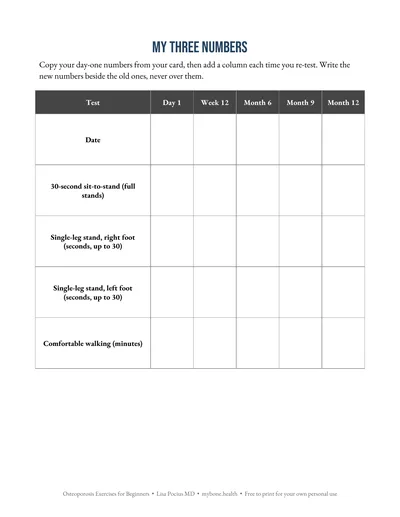
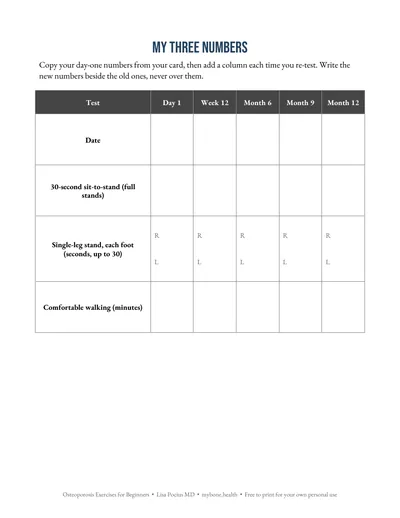
Exercise trackers: three-row My Three Numbers table (single-leg R and L in one row). New PDF and page-3 images; cache-bust ?v=2. Pages 1, 2, 4 verified pixel-identical.

diff --git a/exercise-trackers/index.html b/exercise-trackers/index.html
@@ -580,7 +580,7 @@
                 <h1>Printable logs and trackers</h1>
                 <p class="subhead">These are the tracking pages from <em>Osteoporosis Exercises for Beginners</em>, ready to print. They're free, and you don't need to sign up for anything.</p>
                 <div class="companion-dl">
-                    <a class="btn" href="../downloads/osteoporosis-exercises-logs-and-trackers.pdf" download>Download the PDF</a>
+                    <a class="btn" href="../downloads/osteoporosis-exercises-logs-and-trackers.pdf?v=2" download>Download the PDF</a>
                     <span>4 pages, letter size, about 65 KB. It prints cleanly in black and white.</span>
                 </div>
                 <div class="byline">
@@ -613,8 +613,8 @@
             </figure>
             <figure>
                 <picture>
-                    <source type="image/webp" srcset="../images/exercise-trackers/page-3-400.webp 400w, ../images/exercise-trackers/page-3-800.webp 800w" sizes="(max-width: 900px) 50vw, 220px">
-                    <img src="../images/exercise-trackers/page-3.jpg" alt="Page 3: My Three Numbers" width="800" height="1035" loading="lazy" decoding="async">
+                    <source type="image/webp" srcset="../images/exercise-trackers/page-3-400.webp?v=2 400w, ../images/exercise-trackers/page-3-800.webp?v=2 800w" sizes="(max-width: 900px) 50vw, 220px">
+                    <img src="../images/exercise-trackers/page-3.jpg?v=2" alt="Page 3: My Three Numbers" width="800" height="1035" loading="lazy" decoding="async">
                 </picture>
                 <figcaption>Page 3: My Three Numbers</figcaption>
             </figure>
